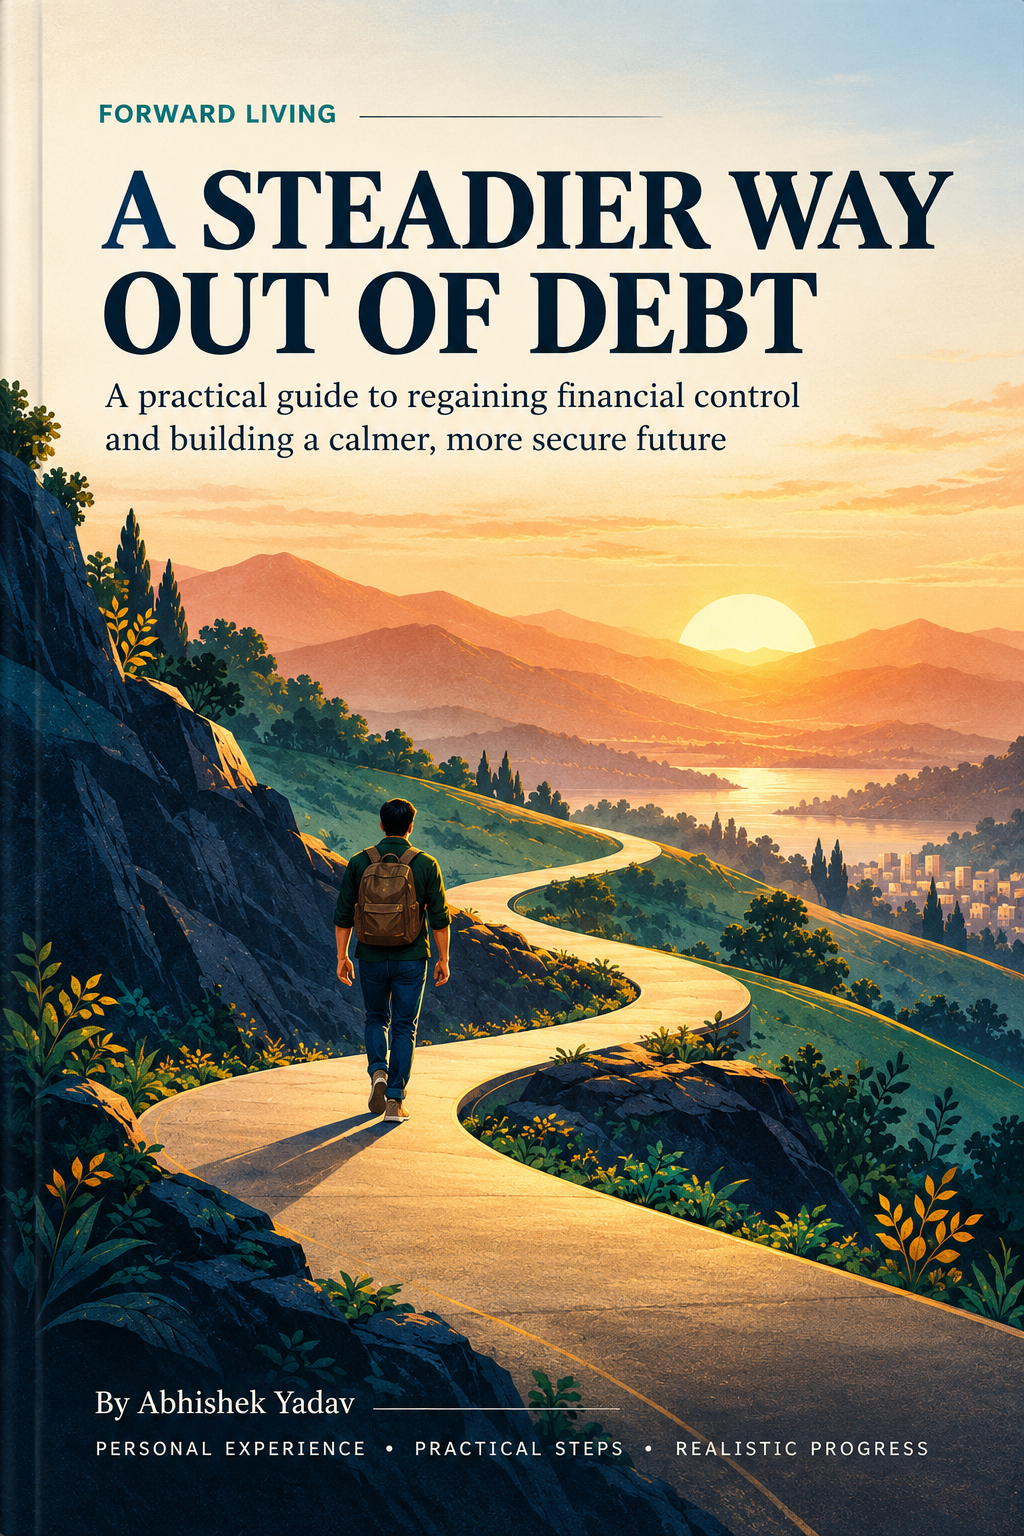
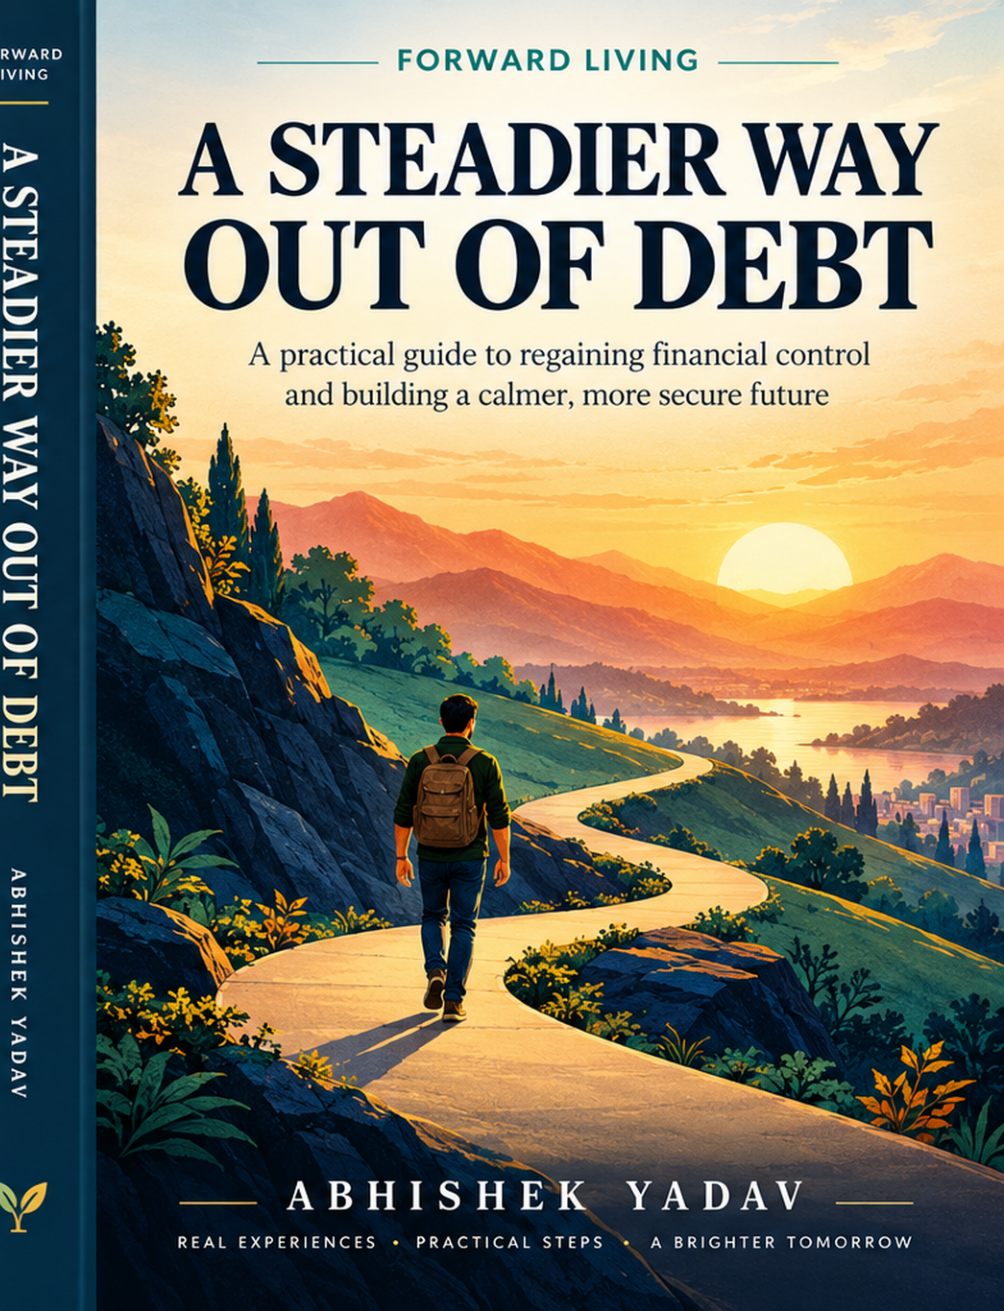
updating

diff --git a/styles.css b/styles.css
@@ -1,1 +1,1 @@
-*{box-sizing:border-box} :root{--ink:#172521;--muted:#66716a;--paper:#f5f1e8;--cream:#ebe3d3;--green:#245d50;--gold:#c99d45;--line:rgba(23,37,33,.18)} html{scroll-behavior:smooth;scroll-padding-top:90px} body{margin:0;background:var(--paper);color:var(--ink);font-family:"DM Sans",Arial,sans-serif;-webkit-font-smoothing:antialiased} a{color:inherit;text-decoration:none}.site-header{height:88px;display:flex;align-items:center;justify-content:space-between;padding:0 7vw;border-bottom:1px solid var(--line)}.brand{display:flex;align-items:center;gap:12px}.brand-mark{width:42px;height:42px;display:grid;place-items:center;border:1px solid var(--green);color:var(--green);font-family:"Playfair Display",serif;font-size:17px;letter-spacing:-1px}.brand strong,.brand small{display:block}.brand strong{font-size:12px;letter-spacing:2px}.brand small{font-size:8px;letter-spacing:1px;color:var(--muted);margin-top:5px}.header-link{font-size:13px;font-weight:600}.header-link span{color:var(--green);margin-left:8px}.hero{min-height:620px;display:grid;grid-template-columns:1fr .92fr;align-items:center;gap:6vw;padding:76px 7vw 86px;overflow:hidden}.hero-copy{max-width:590px;position:relative;z-index:1}.eyebrow{font-size:10px;letter-spacing:2.2px;font-weight:700;color:var(--green);display:flex;align-items:center;gap:10px;margin:0 0 26px}.eyebrow-line{height:1px;width:28px;background:var(--gold)}h1,h2,h3,p{margin-top:0}h1,h2{font-family:"Playfair Display",Georgia,serif;font-weight:500;letter-spacing:-1.8px}h1{font-size:clamp(54px,6.5vw,92px);line-height:.99;margin-bottom:27px}h1 em,h2 em{color:var(--green);font-weight:500}.hero-lede{font-size:16px;line-height:1.8;color:#59645d;max-width:500px;margin-bottom:28px}.hero-actions{display:flex;align-items:center;gap:27px;flex-wrap:wrap}.button{display:inline-flex;align-items:center;gap:26px;padding:16px 19px;font-size:12px;font-weight:700;letter-spacing:.3px;transition:transform .2s,background .2s}.button:hover{transform:translateY(-2px)}.button-primary{background:var(--green);color:#fff}.button-primary:hover{background:#17493e}.text-link{font-size:12px;font-weight:700;border-bottom:1px solid var(--gold);padding:0 0 5px}.coming-note{display:flex;align-items:center;gap:9px;margin-top:39px;font-size:10px;letter-spacing:1px;text-transform:uppercase;color:var(--muted)}.status-dot{width:7px;height:7px;background:var(--gold);border-radius:50%}.hero-art{position:relative;min-height:460px;display:flex;align-items:center;justify-content:center;background:linear-gradient(145deg,#e5d4ac,#f2e7cb 50%,#c9d0bd);isolation:isolate}.hero-art:before{content:"";position:absolute;inset:18px;border:1px solid rgba(36,93,80,.25)}.sun-glow{position:absolute;width:260px;height:260px;border-radius:50%;background:rgba(255,250,220,.7);top:12%;right:10%;filter:blur(2px);z-index:-1}.cover-frame{width:min(64%,310px);position:relative;transform:rotate(2deg);box-shadow:18px 22px 40px rgba(27,42,34,.22);line-height:0}.cover-frame img{width:100%;height:auto;display:block}.art-caption{position:absolute;bottom:31px;left:31px;right:31px;display:flex;justify-content:space-between;gap:10px;font-size:8px;letter-spacing:1.3px;color:#435448}.book-section{padding:100px 12vw;background:#e9e5d9}.section-heading{display:flex;justify-content:space-between;align-items:end;gap:30px;margin-bottom:45px}.section-heading .eyebrow{margin-bottom:14px}.section-heading h2{font-size:clamp(34px,4vw,52px);line-height:1.15;margin:0}.book-details{display:grid;grid-template-columns:230px 1fr;gap:6vw;align-items:center;border-top:1px solid var(--line);padding-top:43px}.book-mini-cover{max-width:220px;box-shadow:12px 15px 30px rgba(27,42,34,.16);line-height:0}.book-mini-cover img{width:100%;display:block}.book-kicker{font-size:10px;letter-spacing:1.5px;text-transform:uppercase;color:var(--green);font-weight:700;margin-bottom:10px}.book-description h3{font-family:"Playfair Display",Georgia,serif;font-size:32px;font-weight:500;margin-bottom:8px}.subtitle{font-size:15px;line-height:1.6;color:#58635c;max-width:550px}.book-description>p:not(.book-kicker):not(.subtitle){font-size:13px;line-height:1.8;color:#59645d;max-width:650px}.topic-list{display:flex;flex-wrap:wrap;gap:8px;margin:22px 0}.topic-list span{border:1px solid var(--line);padding:8px 10px;font-size:10px;color:#4c5b52}.announcement{display:flex;gap:13px;align-items:start;background:rgba(255,255,255,.48);padding:16px;margin-top:25px;max-width:520px}.announcement-icon{color:var(--green);font-size:20px}.announcement strong{font-size:12px}.announcement p{font-size:11px;color:var(--muted);margin:5px 0 0;line-height:1.6}.author-section{padding:100px 12vw}.author-label{display:flex;justify-content:space-between;border-bottom:1px solid var(--line);padding-bottom:17px}.author-label .eyebrow{margin:0}.author-number{font-size:9px;letter-spacing:1.5px;color:var(--muted)}.author-content{display:grid;grid-template-columns:150px 1fr;gap:5vw;max-width:850px;margin:50px auto 0}.author-monogram{width:130px;height:150px;background:#d9dfd0;color:var(--green);display:flex;align-items:center;justify-content:center;font-family:"Playfair Display",serif;font-size:40px;position:relative}.author-monogram span{font-family:Arial,sans-serif;font-size:19px;position:absolute;right:14px;bottom:13px;color:var(--gold)}.author-content h2{font-size:44px;margin-bottom:10px}.author-role{font-size:11px;letter-spacing:.5px;color:var(--green);font-weight:600;margin-bottom:26px}.author-content p:not(.author-role):not(.signature){font-size:14px;line-height:1.9;color:#58635c}.author-content blockquote{margin:28px 0 12px;padding-left:20px;border-left:2px solid var(--gold);font-family:"Playfair Display",Georgia,serif;font-size:19px;line-height:1.6;color:#35483e}.signature{font-family:"Playfair Display",serif;font-style:italic;color:var(--green);font-size:17px}.closing{background:var(--green);color:#f8f4e9;text-align:center;padding:85px 20px}.closing .eyebrow{justify-content:center;color:#e1c783;margin-bottom:20px}.closing h2{font-size:clamp(42px,5vw,66px);line-height:1.08;margin-bottom:17px}.closing h2 em{color:#e1c783}.closing>p:not(.eyebrow){font-size:13px;color:#d7e0d7;margin-bottom:28px}.button-light{background:#f5f1e8;color:var(--green)}.site-footer{min-height:95px;padding:24px 7vw;display:flex;align-items:center;justify-content:space-between;gap:20px}.footer-brand .brand-mark{width:34px;height:34px;font-size:14px}.site-footer>p,.back-top{font-size:10px;color:var(--muted);margin:0}.back-top{font-weight:700}@media(max-width:800px){.site-header{height:72px;padding:0 6vw}.brand-mark{width:35px;height:35px}.brand strong{font-size:10px}.brand small{font-size:7px}.hero{grid-template-columns:1fr;padding:62px 7vw 55px;gap:45px}.hero-copy{max-width:650px}h1{font-size:clamp(55px,12vw,82px)}.hero-art{min-height:430px}.cover-frame{width:min(60%,280px)}.book-section,.author-section{padding:70px 7vw}.section-heading{display:block}.section-heading h2{margin-top:0}.book-details{grid-template-columns:150px 1fr;gap:28px}.book-mini-cover{width:150px}.book-description h3{font-size:27px}.author-content{grid-template-columns:90px 1fr;gap:25px;margin-top:35px}.author-monogram{width:85px;height:105px;font-size:29px}.author-content h2{font-size:36px}.site-footer{padding:22px 6vw;flex-wrap:wrap}.site-footer>p{order:3;width:100%}}@media(max-width:520px){.header-link{font-size:11px}.hero{padding-top:48px}.hero-lede{font-size:14px}.hero-art{min-height:370px}.art-caption{left:22px;right:22px;bottom:25px;font-size:7px}.book-details{grid-template-columns:1fr}.book-mini-cover{width:170px;margin:0 auto 10px}.book-description h3{font-size:29px}.author-content{grid-template-columns:1fr}.author-monogram{width:72px;height:72px;font-size:25px}.author-monogram span{font-size:13px;right:7px;bottom:7px}.author-content h2{font-size:34px}.author-content blockquote{font-size:17px}.closing{padding:70px 20px}.site-footer{align-items:flex-start}.site-footer .back-top{margin-left:auto}}
+*{box-sizing:border-box} :root{--ink:#172521;--muted:#66716a;--paper:#f5f1e8;--cream:#ebe3d3;--green:#245d50;--gold:#c99d45;--line:rgba(23,37,33,.18)} html{scroll-behavior:smooth;scroll-padding-top:90px} body{margin:0;background:var(--paper);color:var(--ink);font-family:"DM Sans",Arial,sans-serif;-webkit-font-smoothing:antialiased} a{color:inherit;text-decoration:none}.site-header{height:88px;display:flex;align-items:center;justify-content:space-between;padding:0 7vw;border-bottom:1px solid var(--line)}.brand{display:flex;align-items:center;gap:12px}.brand-mark{width:42px;height:42px;display:grid;place-items:center;border:1px solid var(--green);color:var(--green);font-family:"Playfair Display",serif;font-size:17px;letter-spacing:-1px}.brand strong,.brand small{display:block}.brand strong{font-size:12px;letter-spacing:2px}.brand small{font-size:8px;letter-spacing:1px;color:var(--muted);margin-top:5px}.header-link{font-size:13px;font-weight:600}.header-link span{color:var(--green);margin-left:8px}.hero{min-height:620px;display:grid;grid-template-columns:1fr .92fr;align-items:center;gap:6vw;padding:76px 7vw 86px;overflow:hidden}.hero-copy{max-width:590px;position:relative;z-index:1}.eyebrow{font-size:10px;letter-spacing:2.2px;font-weight:700;color:var(--green);display:flex;align-items:center;gap:10px;margin:0 0 26px}.eyebrow-line{height:1px;width:28px;background:var(--gold)}h1,h2,h3,p{margin-top:0}h1,h2{font-family:"Playfair Display",Georgia,serif;font-weight:500;letter-spacing:-1.8px}h1{font-size:clamp(54px,6.5vw,92px);line-height:.99;margin-bottom:27px}h1 em,h2 em{color:var(--green);font-weight:500}.hero-lede{font-size:16px;line-height:1.8;color:#59645d;max-width:500px;margin-bottom:28px}.hero-actions{display:flex;align-items:center;gap:27px;flex-wrap:wrap}.button{display:inline-flex;align-items:center;gap:26px;padding:16px 19px;font-size:12px;font-weight:700;letter-spacing:.3px;transition:transform .2s,background .2s}.button:hover{transform:translateY(-2px)}.button-primary{background:var(--green);color:#fff}.button-primary:hover{background:#17493e}.text-link{font-size:12px;font-weight:700;border-bottom:1px solid var(--gold);padding:0 0 5px}.coming-note{display:flex;align-items:center;gap:9px;margin-top:39px;font-size:10px;letter-spacing:1px;text-transform:uppercase;color:var(--muted)}.status-dot{width:7px;height:7px;background:var(--gold);border-radius:50%}.hero-art{position:relative;min-height:460px;display:flex;align-items:center;justify-content:center;background:linear-gradient(145deg,#e5d4ac,#f2e7cb 50%,#c9d0bd);isolation:isolate}.hero-art:before{content:"";position:absolute;inset:18px;border:1px solid rgba(36,93,80,.25)}.sun-glow{position:absolute;width:260px;height:260px;border-radius:50%;background:rgba(255,250,220,.7);top:12%;right:10%;filter:blur(2px);z-index:-1}.cover-frame{width:min(64%,310px);position:relative;transform:rotate(2deg);box-shadow:18px 22px 40px rgba(27,42,34,.22);line-height:0}.cover-frame img{width:100%;height:auto;display:block}.art-caption{position:absolute;bottom:31px;left:31px;right:31px;display:flex;justify-content:space-between;gap:10px;font-size:8px;letter-spacing:1.3px;color:#435448}.book-section{padding:100px 12vw;background:#e9e5d9}.section-heading{display:flex;justify-content:space-between;align-items:end;gap:30px;margin-bottom:45px}.section-heading .eyebrow{margin-bottom:14px}.section-heading h2{font-size:clamp(34px,4vw,52px);line-height:1.15;margin:0}.book-details{display:grid;grid-template-columns:230px 1fr;gap:6vw;align-items:center;border-top:1px solid var(--line);padding-top:43px}.book-mini-cover{max-width:220px;box-shadow:12px 15px 30px rgba(27,42,34,.16);line-height:0}.book-mini-cover img{width:100%;display:block}.book-kicker{font-size:10px;letter-spacing:1.5px;text-transform:uppercase;color:var(--green);font-weight:700;margin-bottom:10px}.book-description h3{font-family:"Playfair Display",Georgia,serif;font-size:32px;font-weight:500;margin-bottom:8px}.subtitle{font-size:15px;line-height:1.6;color:#58635c;max-width:550px}.book-description>p:not(.book-kicker):not(.subtitle){font-size:13px;line-height:1.8;color:#59645d;max-width:650px}.topic-list{display:flex;flex-wrap:wrap;gap:8px;margin:22px 0}.topic-list span{border:1px solid var(--line);padding:8px 10px;font-size:10px;color:#4c5b52}.announcement{display:flex;gap:13px;align-items:start;background:rgba(255,255,255,.48);padding:16px;margin-top:25px;max-width:520px}.announcement-icon{color:var(--green);font-size:20px}.announcement strong{font-size:12px}.announcement p{font-size:11px;color:var(--muted);margin:5px 0 0;line-height:1.6}.author-section{padding:100px 12vw}.author-label{display:flex;justify-content:space-between;border-bottom:1px solid var(--line);padding-bottom:17px}.author-label .eyebrow{margin:0}.author-number{font-size:9px;letter-spacing:1.5px;color:var(--muted)}.author-content{display:grid;grid-template-columns:150px 1fr;gap:5vw;max-width:850px;margin:50px auto 0}.author-photo{width:100%;max-width:250px;aspect-ratio:0.68;position:relative;isolation:isolate;margin-top:2px}.author-photo:before{content:"";position:absolute;z-index:-1;left:-18px;top:-18px;width:68%;height:54%;background:#d9dfd0}.author-photo img{display:block;width:100%;height:100%;object-fit:cover;object-position:center 24%;border-radius:10px;box-shadow:0 16px 35px rgba(27,42,34,.13)}.author-photo-spark{position:absolute;left:-35px;bottom:10px;font-size:30px;color:var(--gold)}.author-content h2{font-size:44px;margin-bottom:10px}.author-role{font-size:11px;letter-spacing:.5px;color:var(--green);font-weight:600;margin-bottom:26px}.author-content p:not(.author-role):not(.signature){font-size:14px;line-height:1.9;color:#58635c}.author-content blockquote{margin:28px 0 12px;padding-left:20px;border-left:2px solid var(--gold);font-family:"Playfair Display",Georgia,serif;font-size:19px;line-height:1.6;color:#35483e}.signature{font-family:"Playfair Display",serif;font-style:italic;color:var(--green);font-size:17px}.closing{background:var(--green);color:#f8f4e9;text-align:center;padding:85px 20px}.closing .eyebrow{justify-content:center;color:#e1c783;margin-bottom:20px}.closing h2{font-size:clamp(42px,5vw,66px);line-height:1.08;margin-bottom:17px}.closing h2 em{color:#e1c783}.closing>p:not(.eyebrow){font-size:13px;color:#d7e0d7;margin-bottom:28px}.button-light{background:#f5f1e8;color:var(--green)}.site-footer{min-height:95px;padding:24px 7vw;display:flex;align-items:center;justify-content:space-between;gap:20px}.footer-brand .brand-mark{width:34px;height:34px;font-size:14px}.site-footer>p,.back-top{font-size:10px;color:var(--muted);margin:0}.back-top{font-weight:700}@media(max-width:800px){.site-header{height:72px;padding:0 6vw}.brand-mark{width:35px;height:35px}.brand strong{font-size:10px}.brand small{font-size:7px}.hero{grid-template-columns:1fr;padding:62px 7vw 55px;gap:45px}.hero-copy{max-width:650px}h1{font-size:clamp(55px,12vw,82px)}.hero-art{min-height:430px}.cover-frame{width:min(60%,280px)}.book-section,.author-section{padding:70px 7vw}.section-heading{display:block}.section-heading h2{margin-top:0}.book-details{grid-template-columns:150px 1fr;gap:28px}.book-mini-cover{width:150px}.book-description h3{font-size:27px}.author-content{grid-template-columns:90px 1fr;gap:25px;margin-top:35px}.author-photo{max-width:190px;margin-left:12px}.author-photo-spark{left:-22px;font-size:24px}.author-content h2{font-size:36px}.site-footer{padding:22px 6vw;flex-wrap:wrap}.site-footer>p{order:3;width:100%}}@media(max-width:520px){.header-link{font-size:11px}.hero{padding-top:48px}.hero-lede{font-size:14px}.hero-art{min-height:370px}.art-caption{left:22px;right:22px;bottom:25px;font-size:7px}.book-details{grid-template-columns:1fr}.book-mini-cover{width:170px;margin:0 auto 10px}.book-description h3{font-size:29px}.author-content{grid-template-columns:1fr}.author-photo{max-width:220px;margin:0 0 10px 12px;aspect-ratio:0.78}.author-photo img{object-position:center 22%}.author-photo-spark{left:-22px;bottom:4px;font-size:23px}.author-content h2{font-size:34px}.author-content blockquote{font-size:17px}.closing{padding:70px 20px}.site-footer{align-items:flex-start}.site-footer .back-top{margin-left:auto}}

diff --git a/index.html b/index.html
@@ -62,7 +62,10 @@
     <section class="author-section" id="about">
       <div class="author-label"><span class="eyebrow">A NOTE FROM THE AUTHOR</span><span class="author-number">01 / ABOUT</span></div>
       <div class="author-content">
-        <div class="author-monogram" aria-hidden="true">AY<span>✳</span></div>
+        <div class="author-photo">
+          <img src="/assets/abhishek-portrait.jpg" alt="Abhishek Yadav, founder of Forward Living and author of A Steadier Way Out of Debt">
+          <span class="author-photo-spark" aria-hidden="true">✳</span>
+        </div>
         <div>
           <h2>Hi, I’m Abhishek.</h2>
           <p class="author-role">Software Engineer · Founder of Forward Living · Author</p>

diff --git a/README.md b/README.md
@@ -1,30 +1,3 @@
 # Forward Living — Author & Book Announcement Site
 
 A responsive static website for the Forward Living brand and Abhishek Yadav's upcoming book, **A Steadier Way Out of Debt**.
-
-## Deploy to Vercel
-
-1. Extract this ZIP.
-2. Create a new GitHub repository and upload all files/folders from this project (keep `index.html`, `styles.css`, and `assets/` at the repository root).
-3. In Vercel, choose **Add New → Project**, import the repository, and deploy.
-4. Framework preset: **Other**. Build command: leave empty. Output directory: `.` (the repository root).
-5. If you want to replace the current live site, attach `forwardliving.in` to this new project only after checking the deployment preview and confirming you're ready to switch.
-
-## Preview locally
-
-Open `index.html` in a browser, or run a local static server from this directory, for example:
-
-```bash
-python3 -m http.server 8080
-```
-
-Then open `http://localhost:8080`.
-
-## Before launch
-
-- Confirm the author bio and all wording are accurate.
-- Replace the monogram block with an author portrait if desired.
-- Add a real email signup/payment flow only when you are ready; this version does not collect personal information or accept payments.
-- The book is described as “coming soon”; no launch date is promised.
-- `assets/book-cover.png` is cropped from the uploaded full-wrap cover PDF.
-- Google Fonts are loaded from Google Fonts; system serif/sans-serif fallbacks are included.
